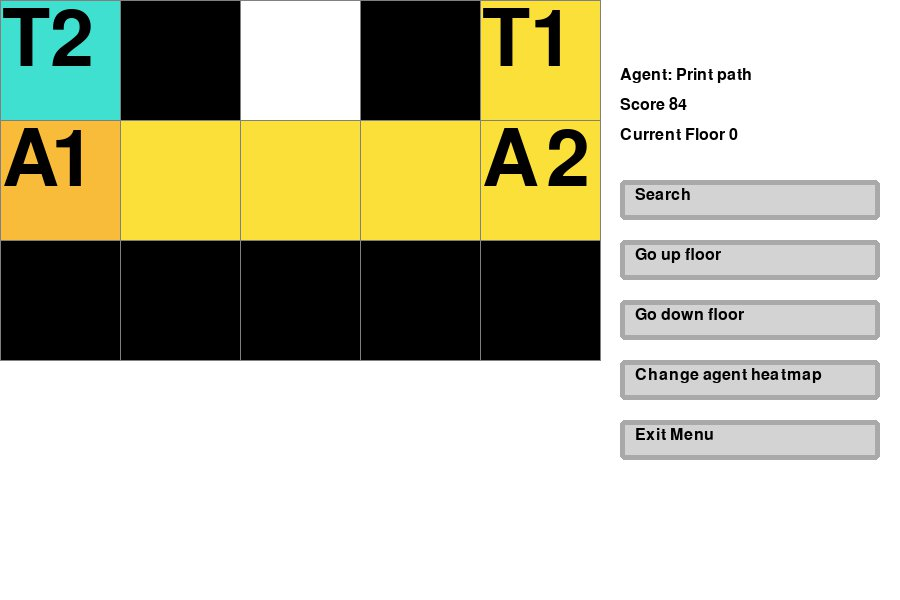
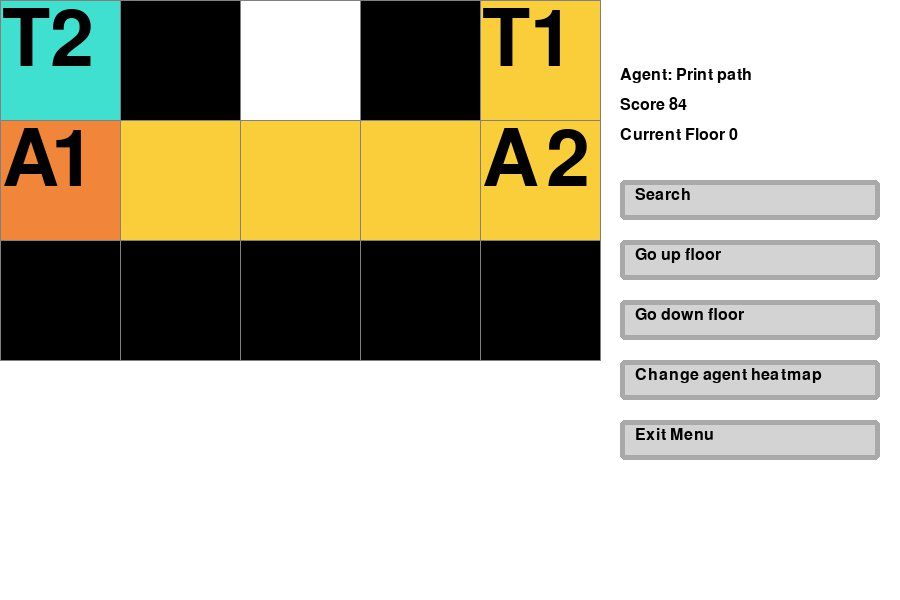
update images save

Changed region(s): [[0.0, 0.18, 0.1556, 0.42]]

diff --git a/main.py b/main.py
@@ -80,7 +80,7 @@ def main():
                     if not url:
                         break
                     level4(url)
-                    level4('level4/test.txt')
+                    # level4('level4/test.txt')
                     print("level 4")
                     
                 

diff --git a/utils/ui.py b/utils/ui.py
@@ -105,7 +105,7 @@ class Spot:
 
     def make_visited(self):
         self.num_visited += 1
-        self.color = self.get_heatmap_color(self.num_visited / 20)
+        self.color = self.get_heatmap_color(self.num_visited / 10)
 
     def make_visited_key_door(self):
         self.color = LIME
